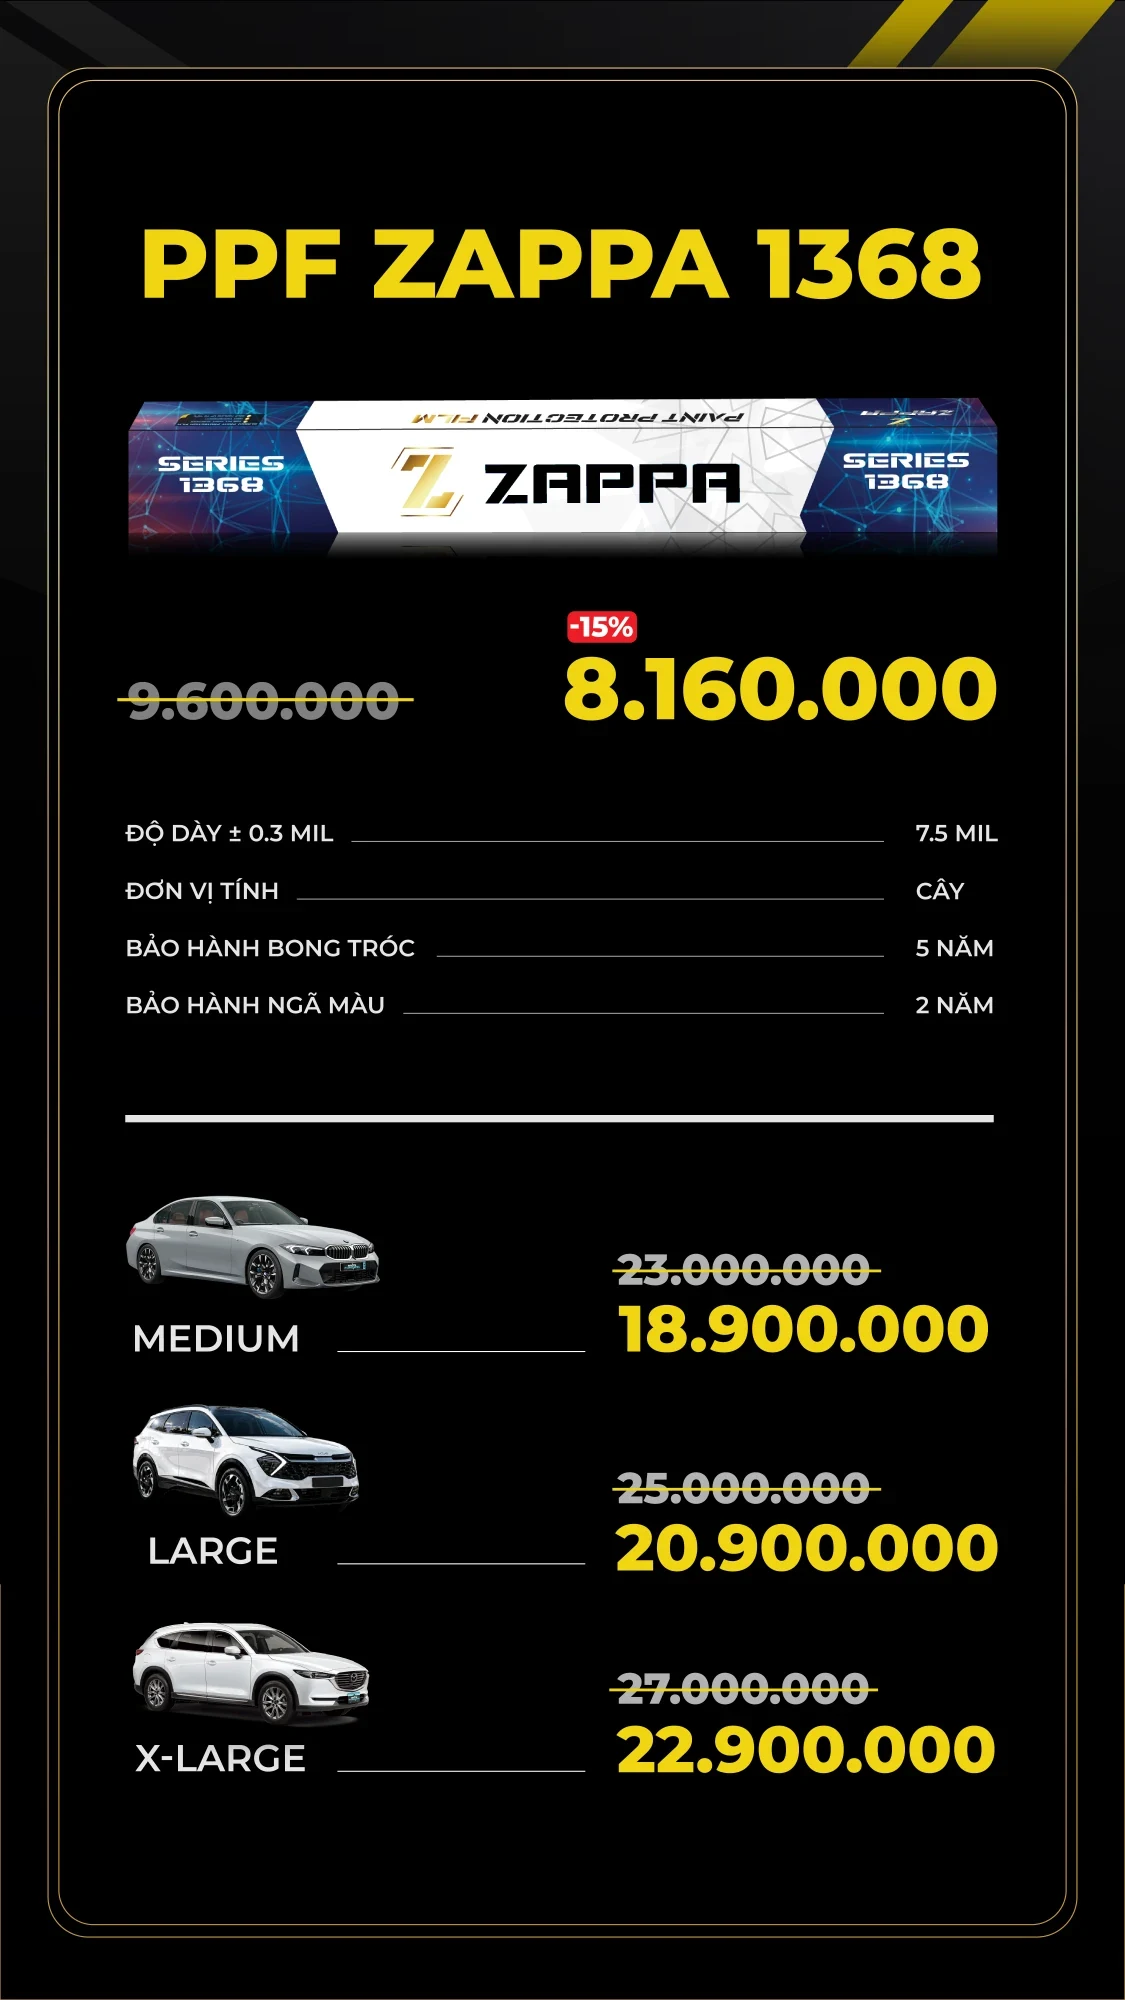
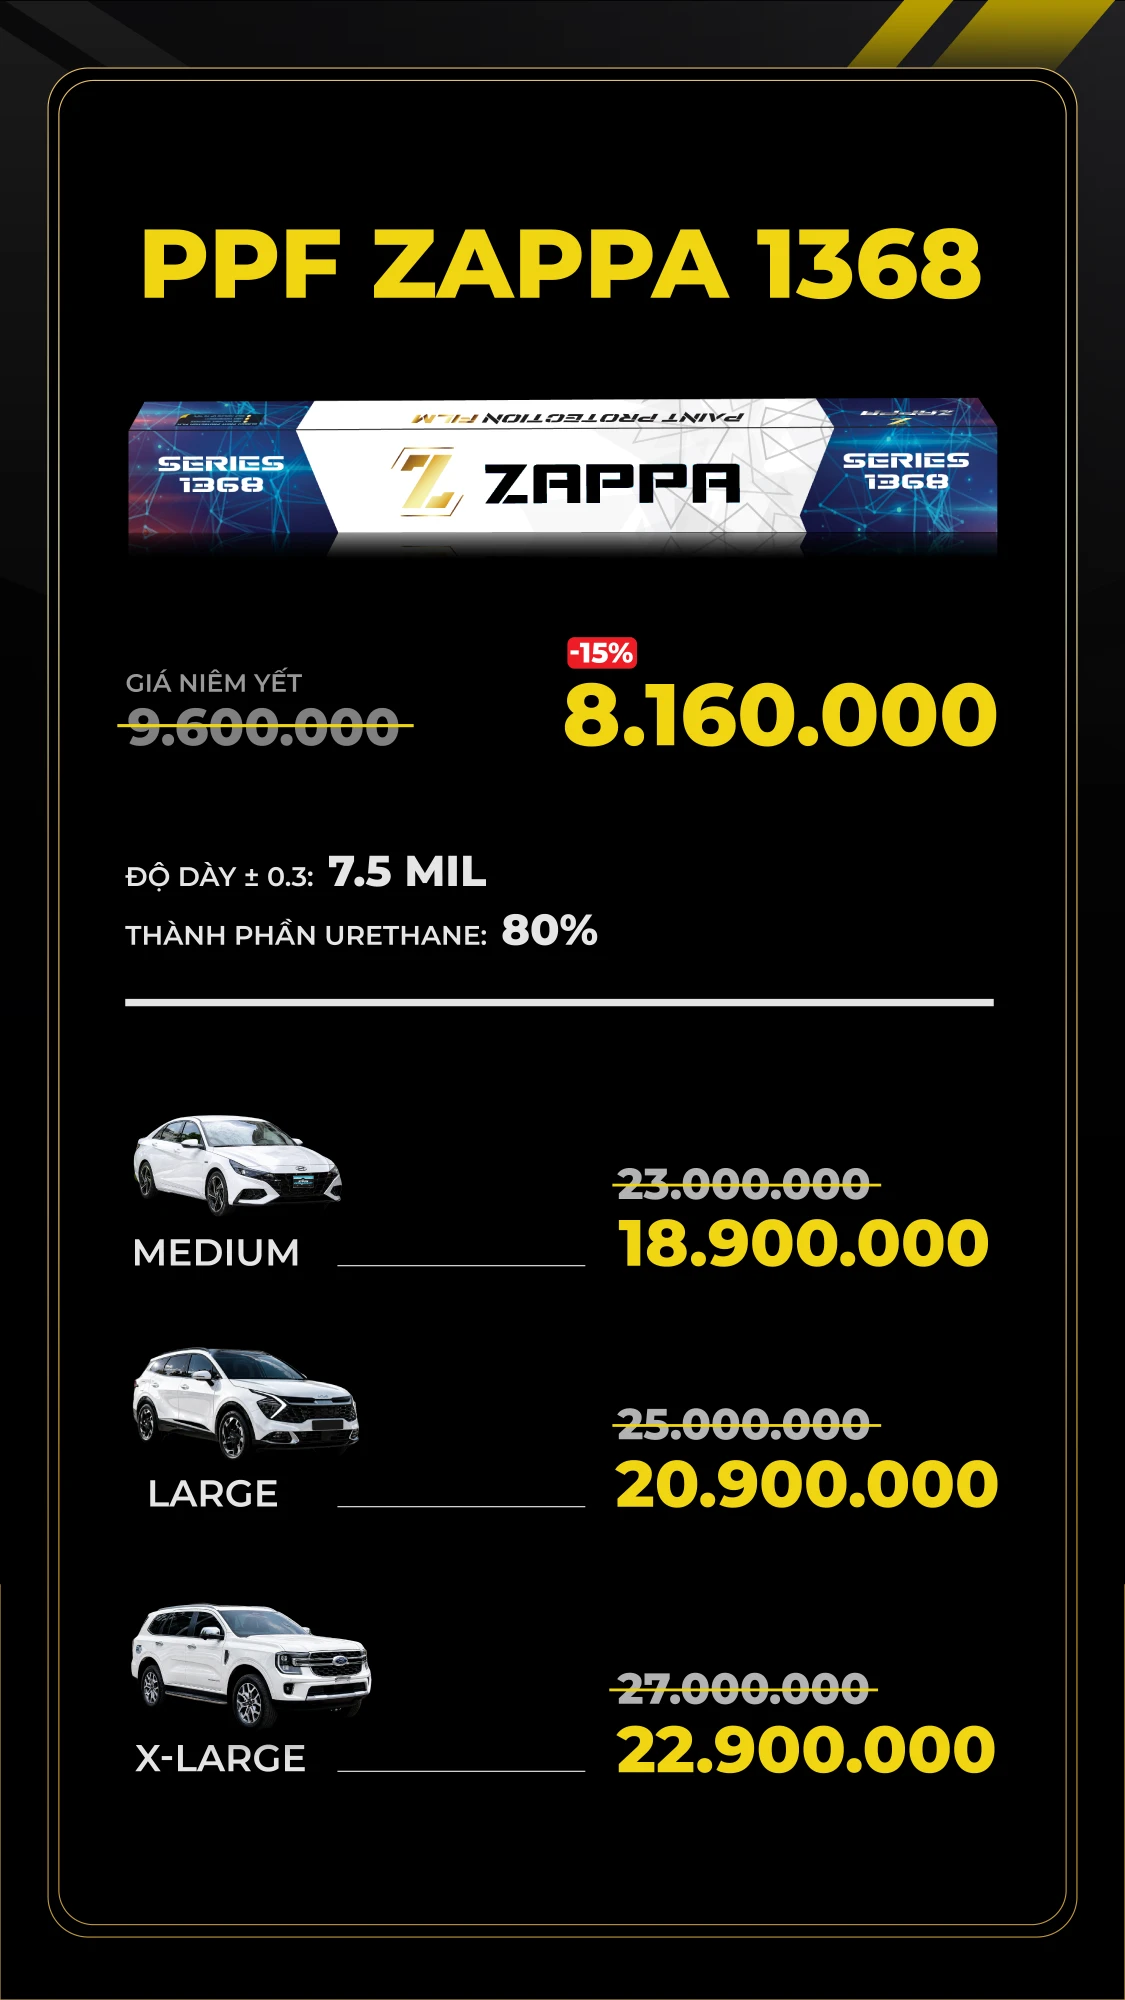
Thay poster moi: bao hanh, 6 trang PPF Zappa 1368-1398 PRO (them thanh phan urethane, xe mau moi), quy trinh dan PPF tach 2 trang (buoc 1-3; buoc 4-5 + tinh nang) - them trang quy-trinh-2; cap nhat urethane trong DATA.ppf va chu mo ta anh

diff --git a/web/index.html b/web/index.html
@@ -510,7 +510,13 @@ html.ready .route{opacity:1;transform:translate(-50%,0);pointer-events:auto}
 
   <section class="board" id="quy-trinh" data-stop="Quy trình dán PPF" aria-label="Quy trình dán PPF">
     <div class="scroller" tabindex="-1"><div class="inner">
-      <img class="poster" src="assets/poster-quy-trinh.webp" width="1125" height="2000" alt="Quy trình dán PPF 5 bước: rửa xe chi tiết; xử lý bề mặt; đánh bóng hiệu chỉnh bề mặt sơn; dán PPF; phủ Ceramic bảo vệ lớp PPF. Tính năng: tự phục hồi vết xước, giảm trầy xước, kháng bụi, chống tia UV, ngăn ngả màu sơn, tạo độ bóng sâu.">
+      <img class="poster" src="assets/poster-quy-trinh.webp" width="1125" height="2000" alt="Quy trình dán PPF, bước 1 đến 3: rửa xe chi tiết; xử lý bề mặt (loại bỏ nhựa cây, phân chim…); đánh bóng hiệu chỉnh bề mặt sơn.">
+    </div></div>
+  </section>
+
+  <section class="board" id="quy-trinh-2" data-stop="Quy trình dán PPF (tiếp)" aria-label="Quy trình dán PPF, bước 4 và 5">
+    <div class="scroller" tabindex="-1"><div class="inner">
+      <img class="poster" src="assets/poster-quy-trinh-2.webp" width="1125" height="2000" alt="Quy trình dán PPF, bước 4 và 5: dán PPF bảo vệ tối ưu bề mặt; phủ Ceramic bảo vệ và tăng cường lớp PPF. Tính năng và ưu điểm: tự phục hồi vết xước, giảm thiểu trầy xước, kháng bụi, chống tia UV, ngăn ngả màu sơn, tạo độ bóng sâu.">
     </div></div>
   </section>
 
@@ -616,16 +622,16 @@ const ein = t => t * t * t;
    ══════════════════════════════════════════ */
 const DATA = {
   // PPF Zappa — giá theo cây (list = niêm yết, sale = khuyến mãi, off = % giảm)
-  // pkgs = giá trọn gói theo cỡ xe; tech = thông số kỹ thuật (đang không hiện, giữ để tra cứu)
+  // pkgs = giá trọn gói theo cỡ xe; tech = thông số kỹ thuật (poster chỉ in urethane; recover, gloss giữ để tra cứu)
   ppf: [
     { name: '1368', img: 'ppf-1368-cut.png', mil: 7.5, warranty: 5, fade: 2, list: 9600000, sale: 8160000, off: 15,
-      tech: { urethane: '75%', recover: '5s', gloss: '93%' },
+      tech: { urethane: '80%', recover: '5s', gloss: '93%' },
       pkgs: [['Medium', 23000000, 18900000], ['Large', 25000000, 20900000], ['X-Large', 27000000, 22900000]] },
     { name: '1378', img: 'ppf-1378-cut.png', mil: 8.5, warranty: 5, fade: 2, list: 12800000, sale: 10880000, off: 15,
-      tech: { urethane: '80%', recover: '4,5s', gloss: '96%' },
+      tech: { urethane: '85%', recover: '4,5s', gloss: '96%' },
       pkgs: [['Medium', 30000000, 25000000], ['Large', 33000000, 27000000], ['X-Large', 35000000, 28900000]] },
     { name: '1388', img: 'ppf-1388-cut.png', mil: 9.5, warranty: 8, fade: 2, list: 16800000, sale: 14280000, off: 15,
-      tech: { urethane: '85%', recover: '4s', gloss: '98%' },
+      tech: { urethane: '90%', recover: '4s', gloss: '98%' },
       pkgs: [['Medium', 38000000, 35000000], ['Large', 40000000, 37000000], ['X-Large', 42000000, 38900000]] },
     { name: '1388 PRO', img: 'ppf-1388pro-cut.png', mil: 10.5, warranty: 8, fade: 2, list: 19900000, sale: 15920000, off: 20,
       tech: { urethane: '90%', recover: '3,5s', gloss: '98%' },
@@ -634,7 +640,7 @@ const DATA = {
       tech: { urethane: '95%', recover: '3s', gloss: '98%' },
       pkgs: [['Medium', 86000000, 75000000], ['Large', 93000000, 80000000], ['X-Large', 99000000, 85000000]] },
     { name: '1398 PRO', img: 'ppf-1398pro-cut.png', mil: 13.5, warranty: 10, fade: 2, list: 33900000, sale: 25425000, off: 25,
-      tech: { urethane: '95%', recover: '3s', gloss: '98%' },
+      tech: { urethane: '98%', recover: '3s', gloss: '98%' },
       pkgs: [['Medium', 96000000, 86000000], ['Large', 102000000, 93000000], ['X-Large', 110000000, 99000000]] },
   ],
   // Phòng trưng bày 3D — tên & mô tả TẠM, cần cập nhật theo thông tin chính thức
@@ -667,7 +673,7 @@ const TOW_SPEED = 1;
 /* ───────── dựng các trang ───────── */
 const slug = name => 'ppf-' + name.toLowerCase().replace(/\s+/g, '');
 // mô tả cho ảnh poster (trình đọc màn hình, máy tìm kiếm) lấy từ DATA.ppf
-const posterAlt = d => `Bảng giá PPF Zappa ${d.name}: giá niêm yết ${vnd(d.list)}, giảm ${d.off}% còn ${vnd(d.sale)}; độ dày ${d.mil} mil, bảo hành bong tróc ${d.warranty} năm, ngả màu ${d.fade} năm; `
+const posterAlt = d => `Bảng giá PPF Zappa ${d.name}: giá niêm yết ${vnd(d.list)}, giảm ${d.off}% còn ${vnd(d.sale)}; độ dày ${d.mil} mil, thành phần urethane ${d.tech.urethane}, bảo hành bong tróc ${d.warranty} năm, ngả màu ${d.fade} năm; `
   + d.pkgs.map(([k, list, sale]) => `gói ${k} ${vnd(list)} còn ${vnd(sale)}`).join(', ') + '.';
 const poster = (d, extra = '') => `<img class="poster" src="assets/poster-${slug(d.name)}.webp" width="1125" height="2000" alt="${posterAlt(d)}"${extra}>`;
 
